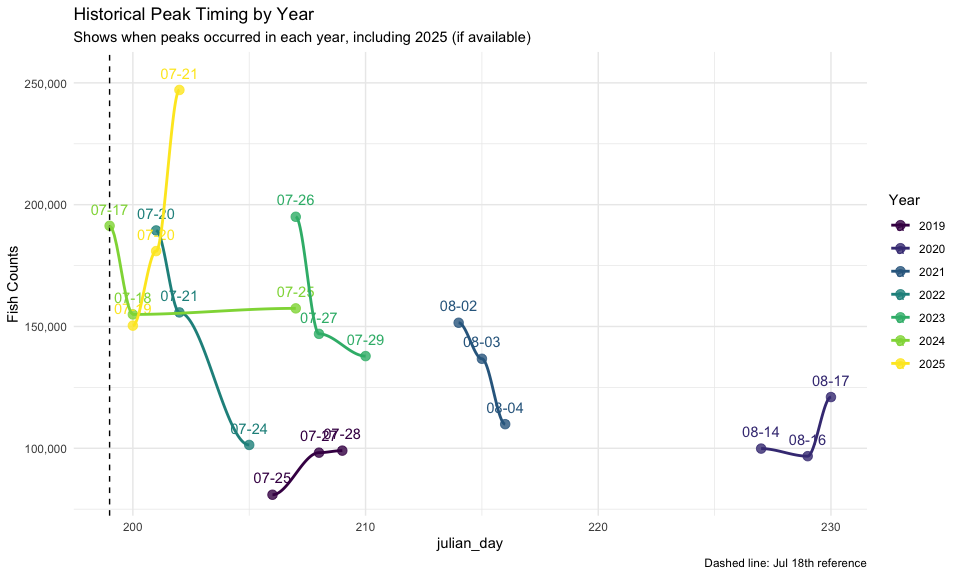
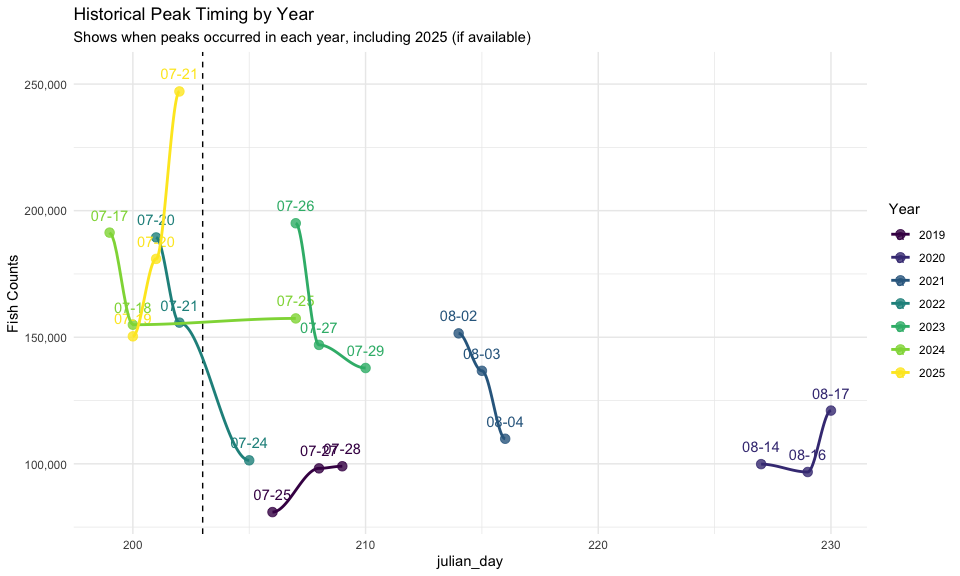
minor edit

diff --git a/kenai_sockeye_counts.md b/kenai_sockeye_counts.md
@@ -539,7 +539,7 @@ historical_peaks <- yearly_peaks |>
   mutate(d = format(date, "%m-%d")) |>
   ggplot(aes(x = julian_day, y = fish_count, color = factor(year))) +
   geom_point(size = 3, alpha = 0.8) +
-  geom_vline(xintercept = 199, linetype = "dashed") +
+  geom_vline(xintercept = yday(Sys.Date()), linetype = "dashed") +
   geom_text(
     aes(x = julian_day, y = fish_count, label = d, color = factor(year)),
     nudge_y = 7000
@@ -548,7 +548,6 @@ historical_peaks <- yearly_peaks |>
   labs(
     title = "Historical Peak Timing by Year",
     subtitle = "Shows when peaks occurred in each year, including 2025 (if available)",
-    caption = "Dashed line: Jul 18th reference",
     y = "Fish Counts",
     color = "Year"
   ) +
@@ -568,7 +567,7 @@ historical_peaks
 heat_map <- fish_data |>
   ggplot(aes(x = julian_day, y = factor(year), fill = fish_count)) +
   geom_tile() +
-  geom_vline(xintercept = 199, linetype = "dashed") +
+  geom_vline(xintercept = yday(Sys.Date()), linetype = "dashed") +
   scale_fill_viridis_c(name = "Fish Count", trans = "sqrt") +
   labs(
     title = "Fish Count Heatmap: Julian Day vs Year",
